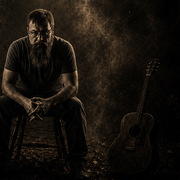
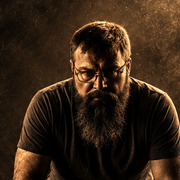
Show one exclusion action, and give Joe his own face on the home screen
Two narrow changes. Nothing touches the exclusion cookie's scope, the token
verification, the collector, production analytics, the Measurement app or
PorchLight.

---- One action, not two ----

The panel offered "Exclude this browser" and "Stop excluding" at the same time,
which is confusing however you read it. It did that because the page genuinely
could not tell which applied: jh_own is HttpOnly and on another origin, and a
credentialed cross-origin endpoint was deliberately not built.

An image's intrinsic size, though, is readable across origins with no CORS. So
the apex answers a one-pixel-wide probe whose HEIGHT carries the answer -- two
tall means excluded. The dashboard renders both forms and removes the one that
does not apply.

That order is the point. If the probe never loads -- offline, blocked, apex
unreachable -- the operator is left with both buttons and can still act,
instead of a panel with no way to change anything. Verified in a browser
against all three states: excluded leaves "Stop excluding", not-excluded leaves
"Exclude this browser", and an unreachable probe leaves both. Send test event
and Sign out are untouched in every case.

It is a trick, so it is written down next to itself rather than being quietly
clever. The alternative was a credentialed CORS endpoint on the apex: more
surface for the same one-bit answer.

---- Joe's face ----

The public icon was already the seated-with-guitar crop, not the lantern -- the
[…]

diff --git a/netlify/lib/admin-ui.ts b/netlify/lib/admin-ui.ts
@@ -230,12 +230,27 @@ export function renderDashboard(owner: DashboardView): string {
   const badge = `${owner.publicOrigin}/api/owner-badge.svg?t=${encodeURIComponent(owner.badgeToken)}&n=${encodeURIComponent(owner.nonce)}`;
 
   const ownForm = (exclude: boolean, label: string) => `
-    <form method="post" action="${owner.publicOrigin}/api/own">
+    <form method="post" action="${owner.publicOrigin}/api/own" data-own="${exclude ? 'on' : 'off'}">
       <input type="hidden" name="exclude" value="${exclude ? '1' : '0'}">
       <input type="hidden" name="t" value="${escapeHtml(owner.setToken)}">
       <input type="hidden" name="return" value="${escapeHtml(owner.returnTo)}">
       <button type="submit">${label}</button>
     </form>`;
+
+  /**
+   * One action, not two -- without being able to read the cookie.
+   *
+   * The page cannot see jh_own: it is HttpOnly and on another origin, and a
+   * credentialed cross-origin endpoint was deliberately not built. But an
+   * image's intrinsic size is readable across origins with no CORS, so the
+   * apex answers a 1px-wide probe whose HEIGHT carries the state.
+   *
+   * Both forms are rendered, and the wrong one is removed once the answer
+   * arrives. That order matters: if the probe never loads -- offline, blocked,
+   * the apex unreachable -- the operator is left with both buttons and can
+   * still act, rather than a panel with no way to change anything.
+   */
+  const probe = `${owner.publicOrigin}/api/owner-badge.svg?probe=1&t=${encodeURIComponent(owner.badgeToken)}&n=${encodeURIComponent(owner.nonce)}`;
 
   return `<!doctype html>
 <html lang="en"><head><meta charset="utf-8">
@@ -276,6 +291,8 @@ export function renderDashboard(owner: DashboardView): string {
   <div class="row" style="margin:1rem 0 0">
     ${ownForm(true, 'Exclude this browser')}
     ${ownForm(false, 'Stop excluding')}
+    <img src="${probe}" alt="" width="1" height="1" id="ownprobe"
+         style="position:absolute;opacity:0;pointer-events:none">
     <button type="button" id="test">Send test event</button>
     <form method="get" action="/api/logout"><button type="submit">Sign out</button></form>
   </div>
@@ -597,6 +614,20 @@ document.getElementById('apply').addEventListener('click', () => {
   current = {from: f, to: t2};
   load();
 });
+
+/* Two pixels tall means this browser is excluded; one means it is not. If the
+   probe errors we leave both actions in place rather than guessing. */
+(function () {
+  const probe = document.getElementById('ownprobe');
+  if (!probe) return;
+  const decide = () => {
+    const excluded = probe.naturalHeight === 2;
+    const drop = document.querySelector('form[data-own="' + (excluded ? 'on' : 'off') + '"]');
+    if (drop) drop.remove();
+  };
+  if (probe.complete && probe.naturalHeight) decide();
+  else probe.addEventListener('load', decide, {once: true});
+})();
 
 document.getElementById('test').addEventListener('click', async () => {
   const out = document.getElementById('testout');

diff --git a/netlify/edge-functions/admin.ts b/netlify/edge-functions/admin.ts
@@ -190,6 +190,33 @@ export default async (req: Request, context: Context): Promise<Response> => {
     const until = who.valid && who.expiresAt
       ? new Date(who.expiresAt * 1000).toISOString().slice(0, 10)
       : '';
+
+    // ---- State probe ------------------------------------------------------
+    // The dashboard needs to show ONE action, not both, which means it has to
+    // know the answer -- and it cannot read this cookie: HttpOnly rules out
+    // script, and a credentialed cross-origin endpoint was ruled out on
+    // purpose. But an image's intrinsic size IS readable across origins
+    // without CORS, so the state rides back as the height of a 1-pixel-wide
+    // SVG. Two pixels tall means excluded.
+    //
+    // It is a trick, and it is written down here rather than being clever in
+    // silence. The alternative was a credentialed CORS endpoint on the apex,
+    // which is more surface for the same answer.
+    if (url.searchParams.has('probe')) {
+      return new Response(
+        `<svg xmlns="http://www.w3.org/2000/svg" width="1" height="${who.valid ? 2 : 1}"/>`,
+        {
+          headers: {
+            'content-type': 'image/svg+xml; charset=utf-8',
+            'cache-control': 'no-store, no-cache, must-revalidate, private, max-age=0',
+            'pragma': 'no-cache',
+            'vary': 'Cookie',
+            'x-robots-tag': 'noindex, nofollow, noarchive',
+          },
+        },
+      );
+    }
+
     const svg = who.valid
       ? ownerBadge('#7fa86a', 'EXCLUDED \u2713', `expires ${until}`)
       : ownerBadge('#c87941', 'NOT EXCLUDED', 'visits from this browser are being counted');

diff --git a/public/sw.js b/public/sw.js
@@ -1,4 +1,4 @@
-const CACHE = 'joeehanson-v12';
+const CACHE = 'joeehanson-v13';
 
 const PRECACHE = [
   '/',

diff --git a/scripts/make-icons.py b/scripts/make-icons.py
@@ -8,21 +8,20 @@ This is a one-off asset generator, not part of any build. It exists so the
 icons can be regenerated and reviewed rather than appearing in the repository
 as binaries nobody can reproduce.
 
-Neither image is redrawn, recoloured or altered. The public icon is a CROP of
-the approved "The Man Under the Ash" cover already in the repository; the
+Neither image is redrawn, recoloured or altered; both are crops only. The
+public icon comes from the text-free portrait supplied 2026-09-20; the
 Measurement icon is the approved artwork used whole.
 
-The crop box is the interesting part. The cover has lettering, and an icon must
-carry none:
+Neither source carries lettering, so the crops are chosen purely for how each
+icon reads small. The public one is tight on the head and shoulders: the
+previous version was a wide frame from the album cover, and at 48 pixels -- the
+size that actually decides whether you can tell two apps apart on a home
+screen -- Joe's face was a handful of dark pixels.
 
-    title  "THE MAN UNDER THE ASH"   occupies x <=  1649
-    artist "JOE E. HANSON"           occupies x <=  1272
-
-so any crop whose left edge is at or beyond x = 1400 is word-free by
-construction, at any height. JOE_CROP starts at 1400. It also keeps the guitar
-in frame, which is what stops the public icon reading as the same picture as
-Measurement's at 48 pixels: both are Joe, in the same sepia, and without some
-second object they are one dark smudge apiece on a home screen.
+That does bring it closer in feel to the Measurement icon, which is also a
+portrait of the same man in the same sepia. They stay apart because Measurement
+carries four bright amber bars, the lightest thing in that tile at any size,
+and because PorchLight keeps its lantern.
 """
 
 import os
@@ -31,10 +30,19 @@ from PIL import Image
 ROOT = os.path.dirname(os.path.dirname(os.path.abspath(__file__)))
 ICONS = os.path.join(ROOT, 'public', 'assets', 'icons')
 
-# Approved cover, already in the repo. Crop only: left edge 1400 clears all
-# lettering, and the box keeps Joe and the guitar.
-ASH = os.path.join(ROOT, 'public', 'assets', 'images', '126.jpg')
-JOE_CROP = (1400, 1200, 2900, 2700)
+# Approved text-free portrait, supplied 2026-09-20. Crop only: the figure is
+# untouched.
+#
+# The crop is tight on the head and shoulders on purpose. The previous public
+# icon was a wider frame taken from the album cover, and at 48 pixels -- which
+# is the size that actually matters on a home screen -- Joe's face was a few
+# dark pixels. Face first, everything else second.
+#
+# It does bring this closer in feel to the Measurement icon, which is also a
+# portrait of the same man. They stay apart because Measurement carries four
+# bright amber bars, which are the lightest thing in that tile at any size.
+ASH = os.path.join(ROOT, 'assets-src', 'joe-portrait-source.png')
+JOE_CROP = (405, 215, 805, 615)
 
 # Approved Measurement artwork, used whole.
 MEASUREMENT = os.path.join(ROOT, 'assets-src', 'measurement-source.png')
